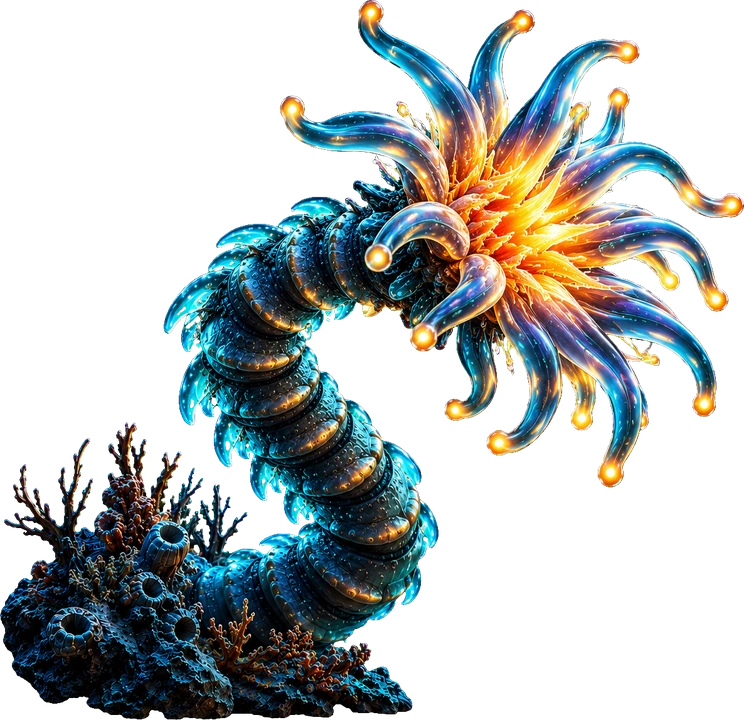
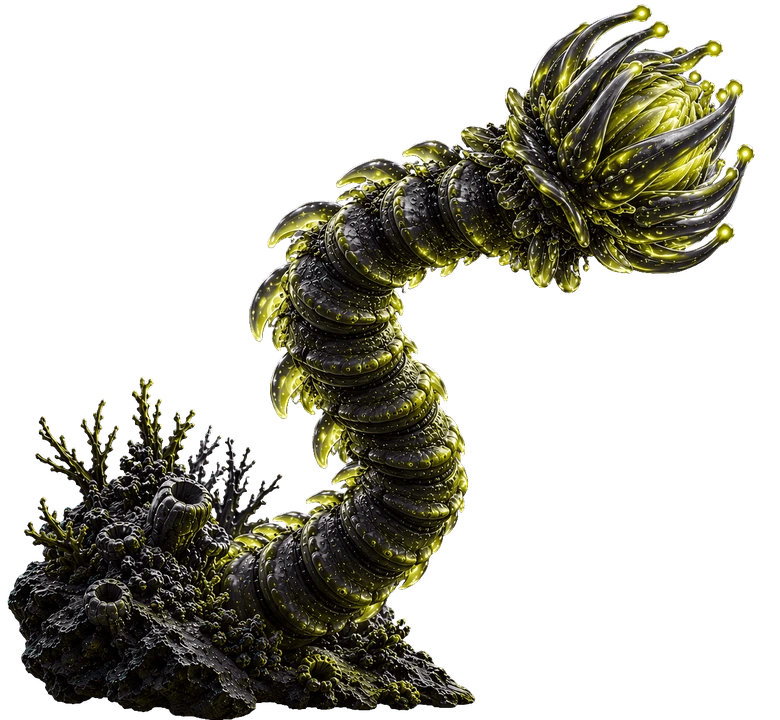
Гидра: заменена на новый набор, своя точка крепления у каждого кадра
Новые исходники из загрузки (фон магента, жёлто-оливковая палитра,
без бирюзы) вырезаны и вставлены вместо старой сине-бирюзовой гидры.

- tools/key_hydra.py: фон определяется по углу (зелёный или магента)
- у каждого кадра своя точка крепления: основания не прыгают при переходе
- геометрия короны, кончиков и стебля отмечена по сетке на картинке
- скорость броска 365 px/с при пределе 440; просвет не нарушен

Claude-Session: https://claude.ai/code/session_01PpYFCjWNdNRrAcfmkbGt6g

diff --git a/js/config.js b/js/config.js
@@ -447,7 +447,7 @@ const CONFIG = {
     SEARCH_AHEAD: 900,       // м поиска подходящей передышки
     MIN_CORRIDOR: 260,       // px — уже этого не ставим
     H_PX: 300,               // высота спрайта на экране
-    W_PX: 310,               // H_PX * 744 / 720
+    W_PX: 325,               // H_PX * 780 / 720
     GAP_MIN: 60,             // px чистого просвета в самом тесном месте
     STRIKE_AMP: 0.35,        // рад: на сколько голова уходит в бросок от покоя
     LEAN_BACK: -0.9,         // рад: предел отхода головы к стене
@@ -462,27 +462,24 @@ const CONFIG = {
     RETREAT: 0.9,            // с возврат
     DEAD_TIME: 0.6,          // с исчезновения после выстрела в голову
     DEBUG: false,            // true — рисовать хитбоксы поверх
-    PIVOT: [0.0255, 0.9944], // точка крепления в долях спрайта (от левого-нижнего)
-    CROWN: [0.795, 0.265],   // центр короны, покой
-    CROWN_STRIKE: [0.700, 0.343],
-    CROWN_R: 0.09,           // радиус ядра короны, доля высоты
+    // Каждый кадр крепится к стене своей точкой: основания у кадров стоят в разных
+    // местах, и без своей точки при переходе основание прыгало бы на ~13 px.
+    PIVOT: [0.085, 0.993],          // покой: точка крепления, доли спрайта
+    PIVOT_STRIKE: [0.045, 0.999],   // бросок: точка крепления, доли спрайта
+    CROWN: [0.680, 0.250],          // центр короны, покой
+    CROWN_STRIKE: [0.800, 0.180],   // центр короны, раскрытая
+    CROWN_R: 0.10,           // радиус ядра короны, доля высоты
     TIP_R: 0.035,            // радиус кончика щупальца, доля высоты
-    TIPS_IDLE: [[0.914, 0.118], [0.952, 0.179], [0.832, 0.069], [0.777, 0.092], [0.945, 0.272]],
-    TIPS_STRIKE: [[0.987, 0.272], [0.958, 0.558], [0.851, 0.058], [0.707, 0.019], [0.495, 0.0]],
-    // Стебель: только средние ряды, где он один. Нижние захватывают основание,
-    // верхние — корону; их в хитбокс не берём.
-    STALK: [[0.56, 0.34, 0.075], [0.455, 0.403, 0.096], [0.416, 0.497, 0.087],
-            [0.46, 0.591, 0.082], [0.482, 0.686, 0.09], [0.36, 0.80, 0.10]],
-    // Контур для проверки просвета: выпуклые оболочки обоих кадров
-    HULL: [[0.034, 0.65], [0.449, 0.261], [0.755, 0.101], [0.777, 0.092], [0.832, 0.069],
-           [0.914, 0.118], [0.927, 0.132], [0.949, 0.164], [0.952, 0.179], [0.945, 0.272],
-           [0.547, 0.982], [0.523, 0.988], [0.274, 0.994], [0.187, 0.993], [0.077, 0.971],
-           [0.038, 0.949], [0.03, 0.94], [0.022, 0.925], [0.009, 0.897], [0.003, 0.85],
-           [0.027, 0.683],
-           [0.003, 0.856], [0.38, 0.146], [0.495, 0.0], [0.707, 0.019], [0.851, 0.058],
-           [0.987, 0.272], [0.991, 0.289], [0.958, 0.558], [0.95, 0.569], [0.526, 0.989],
-           [0.511, 0.99], [0.355, 0.994], [0.185, 0.997], [0.074, 0.976], [0.039, 0.947],
-           [0.019, 0.921], [0.005, 0.892]],
+    TIPS_IDLE: [[0.610, 0.030], [0.690, 0.010], [0.910, 0.070], [0.955, 0.200], [0.985, 0.370]],
+    TIPS_STRIKE: [[0.820, 0.010], [0.900, 0.070], [0.955, 0.210], [0.930, 0.330], [0.730, 0.390]],
+    // Стебель: по средним рядам, где он один. Нижние захватывают основание,
+    // верхние — корону; их в хитбокс не берём. Точки отмечены по сетке.
+    STALK: [[0.470, 0.300, 0.080], [0.440, 0.380, 0.070], [0.450, 0.460, 0.070],
+            [0.480, 0.540, 0.070], [0.480, 0.620, 0.070], [0.450, 0.700, 0.070],
+            [0.410, 0.780, 0.080]],
+    // Контуры для проверки просвета: выпуклые оболочки каждого кадра в его точке крепления
+    HULL_IDLE: [[0.688, 0.000], [0.919, 0.072], [0.932, 0.107], [0.985, 0.276], [0.996, 0.382], [0.940, 0.519], [0.640, 0.974], [0.618, 0.982], [0.577, 0.989], [0.294, 0.992], [0.227, 0.988], [0.124, 0.971], [0.094, 0.944], [0.062, 0.914], [0.003, 0.810], [0.027, 0.710], [0.077, 0.581], [0.594, 0.037], [0.610, 0.022], [0.618, 0.018]],
+    HULL_STRIKE: [[0.071, 0.968], [0.038, 0.925], [0.035, 0.912], [0.012, 0.836], [0.054, 0.585], [0.055, 0.579], [0.369, 0.296], [0.440, 0.243], [0.749, 0.031], [0.822, 0.006], [0.923, 0.068], [0.947, 0.122], [0.962, 0.201], [0.953, 0.240], [0.932, 0.326], [0.586, 0.976], [0.572, 0.979], [0.563, 0.981], [0.281, 0.997], [0.176, 0.986], [0.088, 0.976]],
   },
 
   NEST: {

diff --git a/js/hydra.js b/js/hydra.js
@@ -56,7 +56,11 @@ const Hydra = (() => {
     return [x * c - y * s, x * s + y * c];
   }
 
-  const HULL_LOC = H.HULL.map(([fx, fy]) => [_lx(fx), _ly(fy)]);
+  // Геометрия каждого кадра — в его собственной точке крепления
+  const _lxS = fx => (fx - H.PIVOT_STRIKE[0]) * W;
+  const _lyS = fy => (fy - H.PIVOT_STRIKE[1]) * HH;
+  const HULL_LOC = H.HULL_IDLE.map(([fx, fy]) => [_lx(fx), _ly(fy)])
+    .concat(H.HULL_STRIKE.map(([fx, fy]) => [_lxS(fx), _lyS(fy)]));
 
   // Наибольший вынос головы от крепления вглубь прохода (px) при повороте th.
   // Для выпуклой оболочки максимум линейной функции достигается в вершине,
@@ -267,14 +271,19 @@ const Hydra = (() => {
 
     // Центр короны плавно едет от покоя к раскрытию: скачок хитбокса за
     // кадр был бы гибелью без предупреждения
-    const cx = H.CROWN[0] + (H.CROWN_STRIKE[0] - H.CROWN[0]) * h.k;
-    const cy = H.CROWN[1] + (H.CROWN_STRIKE[1] - H.CROWN[1]) * h.k;
-    const pc = toWorld(_lx(cx), _ly(cy));
+    const ci = [_lx(H.CROWN[0]), _ly(H.CROWN[1])];
+    const cs = [_lxS(H.CROWN_STRIKE[0]), _lyS(H.CROWN_STRIKE[1])];
+    const cx = ci[0] + (cs[0] - ci[0]) * h.k;
+    const cy = ci[1] + (cs[1] - ci[1]) * h.k;
+    const pc = toWorld(cx, cy);
     out.push({ x: pc.x, y: pc.y, r: H.CROWN_R * HH, head: true });
 
-    const tips = h.k < 0.5 ? H.TIPS_IDLE : H.TIPS_STRIKE;
-    for (const [fx, fy] of tips) {
-      const p = toWorld(_lx(fx), _ly(fy));
+    // Кончики каждого кадра — в его точке крепления; в переходе берём свой набор
+    const tips = h.k < 0.5
+      ? H.TIPS_IDLE.map(([fx, fy]) => [_lx(fx), _ly(fy)])
+      : H.TIPS_STRIKE.map(([fx, fy]) => [_lxS(fx), _lyS(fy)]);
+    for (const [lx, ly] of tips) {
+      const p = toWorld(lx, ly);
       out.push({ x: p.x, y: p.y, r: H.TIP_R * HH, head: true });
     }
     return out;
@@ -338,7 +347,6 @@ const Hydra = (() => {
       if (!idle || !strike) continue;   // игра идёт и без картинки; хитбокс остаётся
 
       const fade = h.alive ? 1 : h.fade / H.DEAD_TIME;
-      const ox = -H.PIVOT[0] * W, oy = -H.PIVOT[1] * HH;
 
       ctx.save();
       ctx.translate(h.wallX, py);
@@ -346,9 +354,9 @@ const Hydra = (() => {
       ctx.rotate(h.th);
 
       ctx.globalAlpha = fade * (1 - h.k);
-      ctx.drawImage(idle, ox, oy, W, HH);
+      ctx.drawImage(idle, -H.PIVOT[0] * W, -H.PIVOT[1] * HH, W, HH);
       ctx.globalAlpha = fade * h.k;
-      ctx.drawImage(strike, ox, oy, W, HH);
+      ctx.drawImage(strike, -H.PIVOT_STRIKE[0] * W, -H.PIVOT_STRIKE[1] * HH, W, HH);
       ctx.restore();
       ctx.globalAlpha = 1;
 

diff --git a/tools/key_hydra.py b/tools/key_hydra.py
@@ -1,35 +1,55 @@
-# Вырезает зелёный фон из исходников гидры и снимает геометрию для config.js.
+# Вырезает фон из исходников гидры и снимает геометрию для config.js.
+# Фон определяется по углу картинки: зелёный или магента (#FF00FF).
 # Запуск из корня репозитория: python3 tools/key_hydra.py
-import json, sys
+import json, os
 import numpy as np
 from PIL import Image
+from scipy.spatial import ConvexHull
 
-import os
 ROOT = os.path.join(os.path.dirname(os.path.abspath(__file__)), '..')
 SRC = os.path.join(ROOT, 'assets/sprites/src') + '/'
 OUT = os.path.join(ROOT, 'assets/creatures') + '/'
 H_OUT = 720  # высота выходного спрайта, px
+S_OUT = os.path.join(ROOT, 'tools', 'hydra_geom.json')
+
+
+def bg_kind(a):
+    c = a[5, 5]
+    return 'magenta' if c[0] > 200 and c[2] > 200 and c[1] < 80 else 'green'
+
 
 def key(path):
     im = np.asarray(Image.open(path).convert('RGB')).astype(np.float32)
     r, g, b = im[..., 0], im[..., 1], im[..., 2]
-    excess = g - np.maximum(r, b)              # насколько зелёного больше, чем красного и синего
+    if bg_kind(im) == 'magenta':
+        excess = np.minimum(r, b) - g           # насколько магента сильнее зелёного
+    else:
+        excess = g - np.maximum(r, b)           # насколько зелёный сильнее красного и синего
     alpha = 255 * (1 - np.clip((excess - 25) / 55, 0, 1))
-    # подавление зелёной каймы: где есть альфа, зелёный не выше max(r,b)
-    g2 = np.minimum(g, np.maximum(r, b) + 4)
-    out = np.stack([r, g2, b, alpha], -1)
+    if bg_kind(im) == 'magenta':
+        g2 = g
+        r2 = np.minimum(r, g + 4 + 0 * r)       # гасим магентовую кайму
+        b2 = np.minimum(b, g + 4 + 0 * b)
+    else:
+        g2 = np.minimum(g, np.maximum(r, b) + 4)
+        r2, b2 = r, b
+    out = np.stack([r2, g2, b2, alpha], -1)
     out[..., :3] = np.where((alpha > 0)[..., None], out[..., :3], 0)
     return out.clip(0, 255).astype(np.uint8)
 
 
+def crop_box(rgba_list):
+    x0s, x1s, y0s, y1s = [], [], [], []
+    for rgba in rgba_list:
+        ys, xs = np.where(rgba[..., 3] > 8)
+        x0s.append(xs.min()); x1s.append(xs.max() + 1)
+        y0s.append(ys.min()); y1s.append(ys.max() + 1)
+    return min(x0s), max(x1s), min(y0s), max(y1s)
+
+
 def main():
     keyed = {n: key(SRC + f'hydra_{n}_src.png') for n in ['idle', 'strike']}
-    # общая рамка: объединение непрозрачных областей обоих кадров
-    x0s, x1s, y0s, y1s = [], [], [], []
-    for rgba in keyed.values():
-        ys, xs = np.where(rgba[..., 3] > 8)
-        x0s.append(xs.min()); x1s.append(xs.max() + 1); y0s.append(ys.min()); y1s.append(ys.max() + 1)
-    X0, X1, Y0, Y1 = min(x0s), max(x1s), min(y0s), max(y1s)
+    X0, X1, Y0, Y1 = crop_box(keyed.values())
     res = {}
     for name, rgba in keyed.items():
         crop = rgba[Y0:Y1, X0:X1]
@@ -37,31 +57,62 @@ def main():
         W = round(w * H_OUT / h)
         img = Image.fromarray(crop, 'RGBA').resize((W, H_OUT), Image.LANCZOS)
         img.save(OUT + f'hydra_{name}.webp', 'WEBP', quality=92)
-        m = np.asarray(img)[..., 3] > 128
+        arr = np.asarray(img).astype(np.float32)
+        m = arr[..., 3] > 128
         H, Wd = m.shape
         yy, xx = np.where(m)
         bottom = yy >= H * 0.94
         pivot = (float(xx[bottom].min()) / Wd, float(yy.max()) / H)
-        arr = np.asarray(img).astype(np.float32)
-        core = (arr[..., 0] > 200) & (arr[..., 1] > 110) & (arr[..., 2] < 150) & (arr[..., 3] > 128)
+        # центр короны: ядро — самые яркие оранжевые пиксели в верхней половине
+        core = (arr[..., 0] > 200) & (arr[..., 1] > 110) & (arr[..., 2] < 170) & m
+        core[H // 2:] = False
         cy, cx = np.where(core)
         crown = (float(cx.mean()) / Wd, float(cy.mean()) / H) if cx.size else None
+        # контур: выпуклая оболочка непрозрачных пикселей
         pts = np.column_stack([xx, yy])[::max(1, len(xx) // 3000)]
-        from scipy.spatial import ConvexHull
         hull = ConvexHull(pts)
         hv = [(float(pts[i][0]) / Wd, float(pts[i][1]) / H) for i in hull.vertices]
+        # кончики: вершины оболочки, самые далёкие от центра короны
+        ccx, ccy = crown[0] * Wd, crown[1] * H
+        # кончики — только в верхней части короны: ниже центра короны + 0.12 высоты
+        # лежит стебель и основание, их в кончики не берём
+        cand = [(x, y) for x, y in hv if y < crown[1] + 0.12]
+        cand.sort(key=lambda p: -((p[0] * Wd - ccx) ** 2 + (p[1] * H - ccy) ** 2))
+        tips = []
+        for x, y in cand:
+            if all(((x - tx) ** 2 + (y - ty) ** 2) ** 0.5 > 0.08 for tx, ty in tips):
+                tips.append((x, y))
+            if len(tips) == 5:
+                break
+        # стебель: ведём по строкам от основания короны вниз. В каждой строке
+        # берём полосу, ближайшую к предыдущей позиции, — так не прыгаем на кораллы
         circles = []
-        for fy in np.linspace(0.12, 0.78, 8):
+        px_prev = crown[0] - 0.02
+        for fy in np.arange(0.30, 0.86, 0.04):
             row = int(fy * H)
             xs_r = np.where(m[row])[0]
-            if xs_r.size < 4: continue
+            if xs_r.size < 4:
+                continue
             breaks = np.where(np.diff(xs_r) > 1)[0]
-            run = max(np.split(xs_r, breaks + 1), key=len)
-            circles.append({'x': float(run.mean()) / Wd, 'y': fy, 'r': float(run.size / 2) / H})
-        res[name] = {'size': [W, H_OUT], 'pivot': pivot, 'crown': crown, 'hull': hv, 'stalk': circles}
+            runs = np.split(xs_r, breaks + 1)
+            runs = [r for r in runs if r.size >= 4]
+            if not runs:
+                continue
+            best = min(runs, key=lambda r: abs(r.mean() / Wd - px_prev) - 0.0002 * r.size)
+            cx_run = float(best.mean()) / Wd
+            if abs(cx_run - px_prev) > 0.10:
+                continue
+            px_prev = cx_run
+            r_px = min(best.size / 2, 0.10 * H)
+            circles.append({'x': cx_run, 'y': float(fy), 'r': r_px / H})
+        res[name] = {'size': [W, H_OUT], 'pivot': pivot, 'crown': crown,
+                     'tips': tips, 'hull': hv, 'stalk': circles}
     with open(S_OUT, 'w') as f:
         json.dump(res, f)
-    print('ok', {k: (v['size'], [round(c,3) for c in v['pivot']], [round(c,3) for c in v['crown']], len(v['hull']), len(v['stalk'])) for k, v in res.items()})
+    for k, v in res.items():
+        print(k, 'size', v['size'], 'pivot', [round(x, 3) for x in v['pivot']],
+              'crown', [round(x, 3) for x in v['crown']], 'tips', len(v['tips']),
+              'hull', len(v['hull']), 'stalk', len(v['stalk']))
 
-S_OUT = os.path.join(ROOT, 'tools', 'hydra_geom.json')
+
 main()
